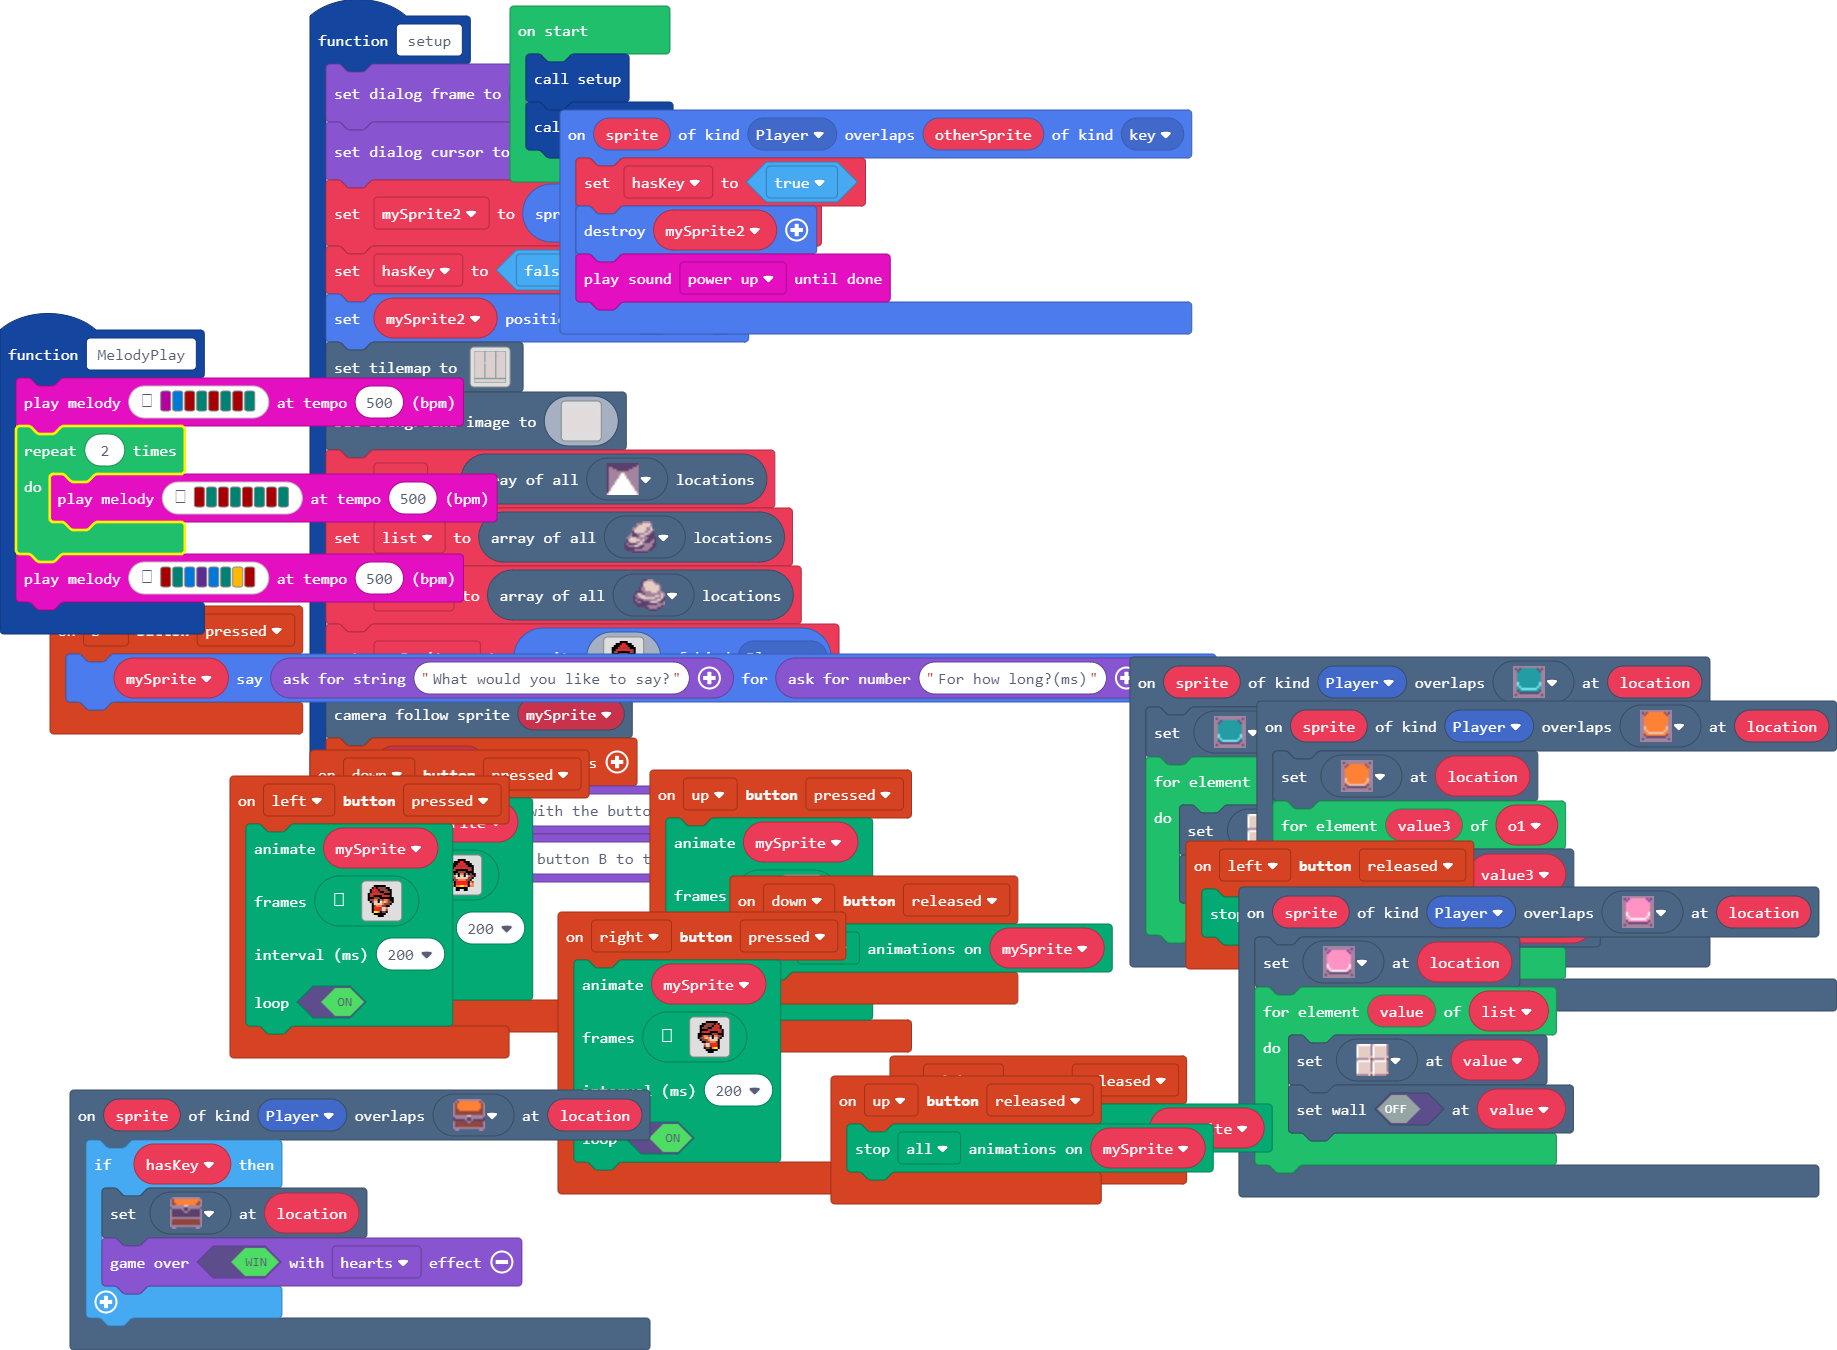
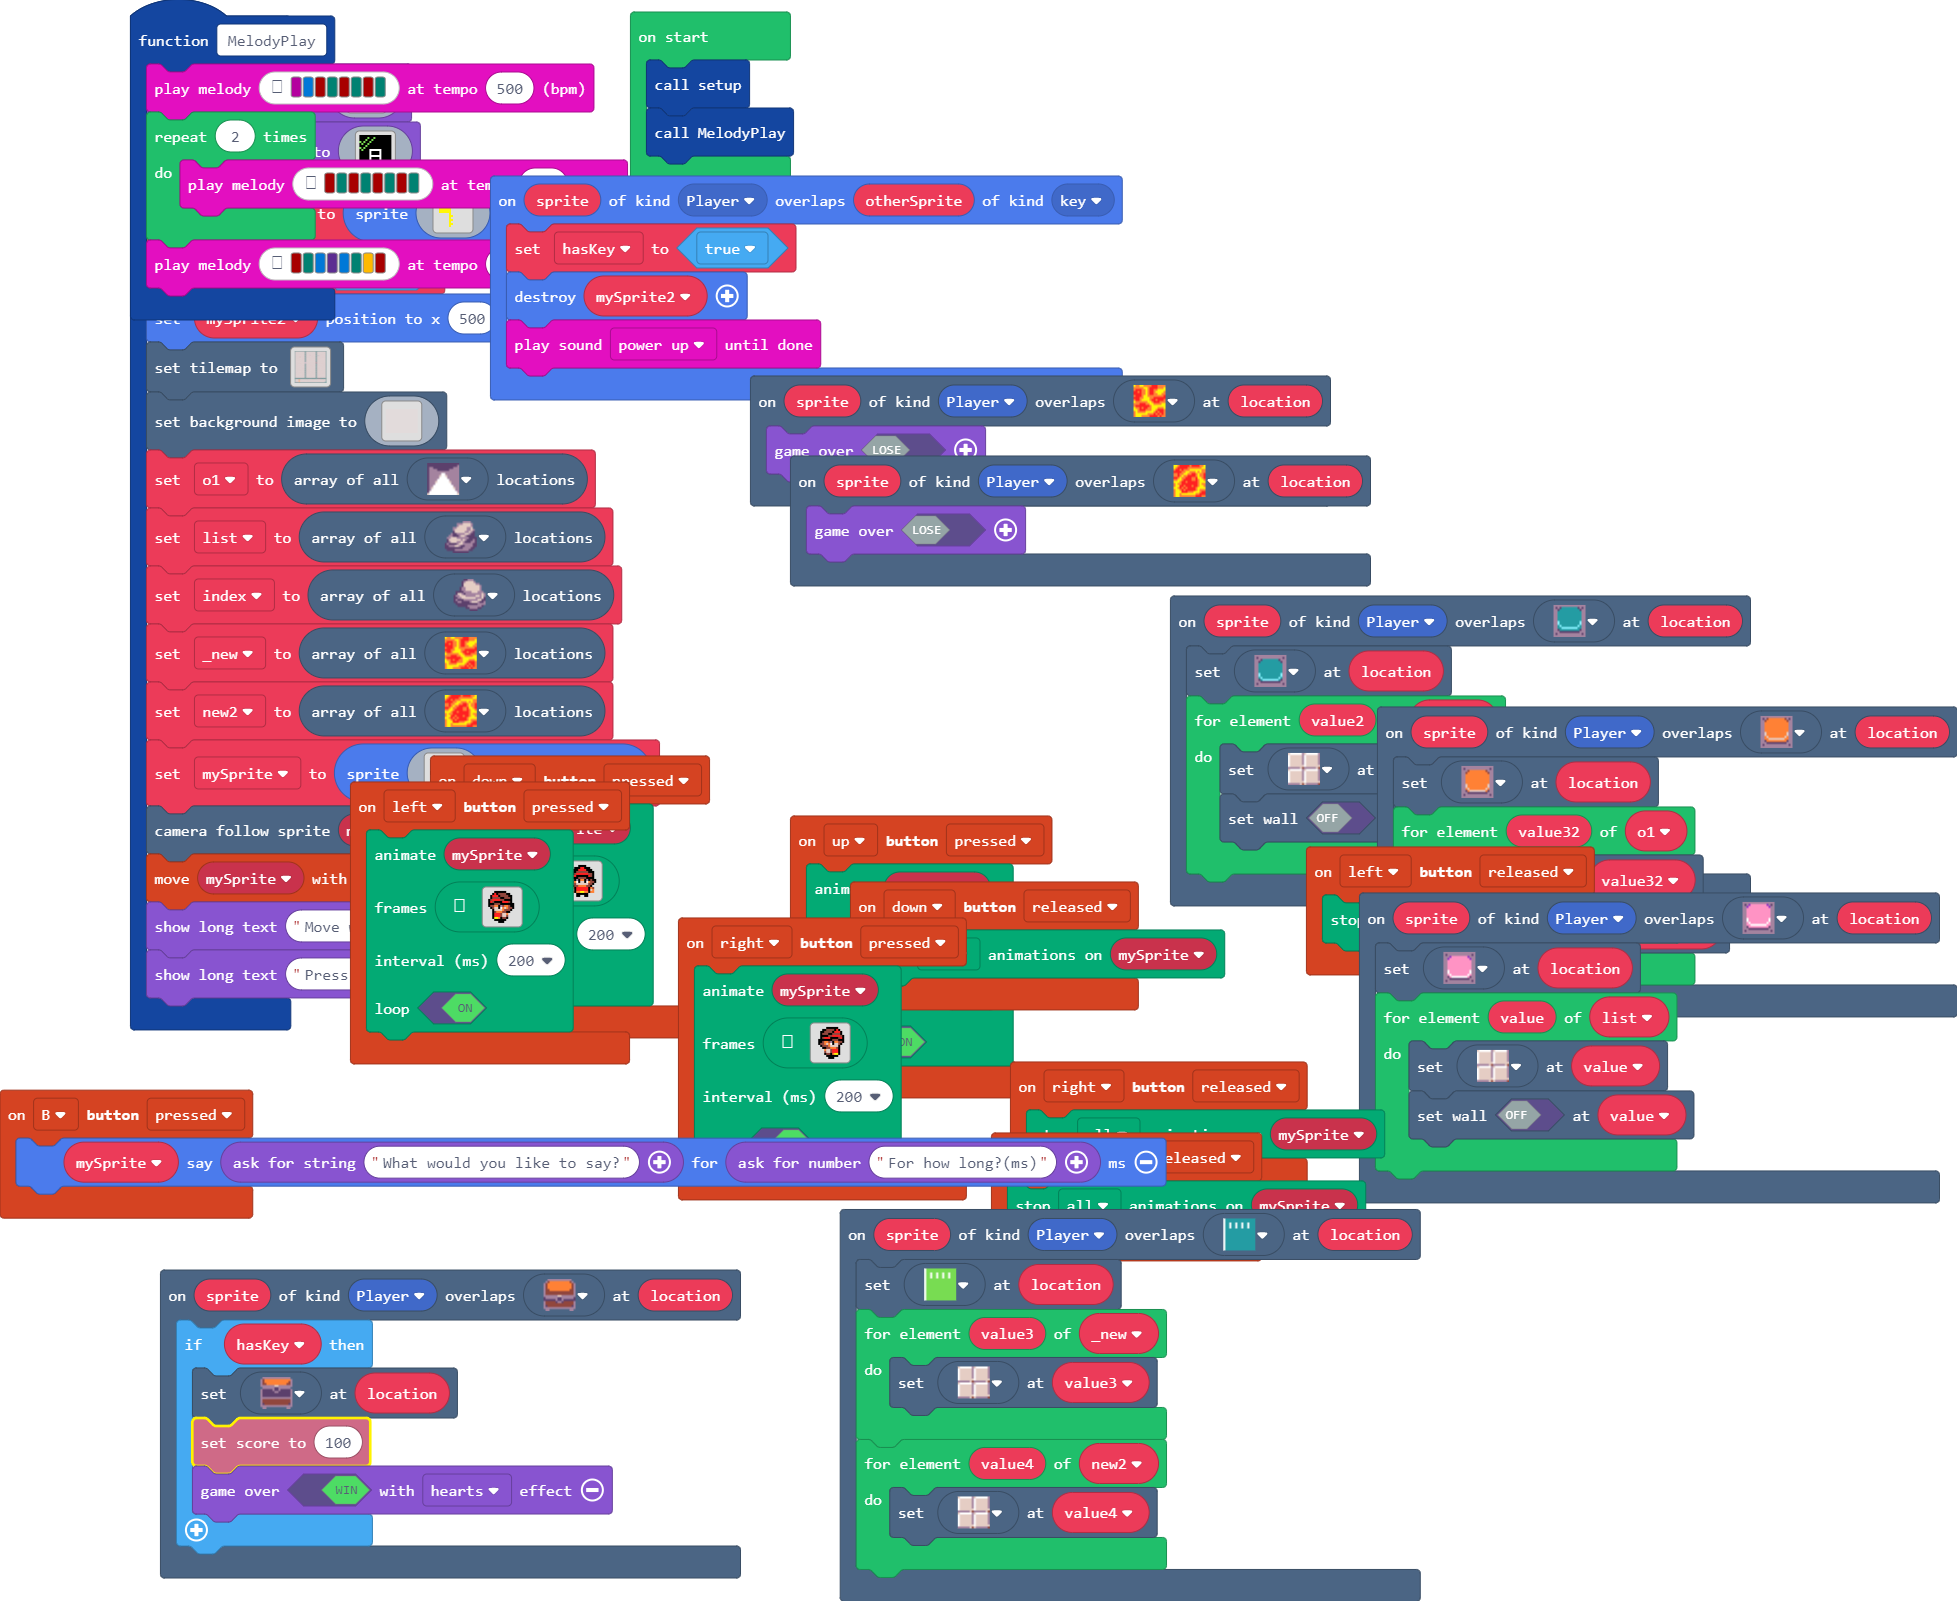
Update main.blocks, main.ts

diff --git a/main.ts b/main.ts
@@ -21,6 +21,25 @@ namespace myTiles {
 . . . . . . . . . . . . . . . . 
 . . . . . . . . . . . . . . . . 
 `
+    //% blockIdentity=images._tile
+    export const tile1 = img`
+d d d d d d d d d d d d d d d d 
+d d d d d d d d d d d d d d d d 
+d d d d d d d d d d d d d d d d 
+d d d d d d d d d d d d d d d d 
+d d d d d f f f f f f f d d d d 
+d d d d d f f f f f f f d d d d 
+d d d d d f f f f f f f d d d d 
+d d d d d f f f f f f f d d d d 
+d d d d d f f f f f f f d d d d 
+d d d d d f f f f f f f d d d d 
+d d d d d f f f f f f f d d d d 
+d d d d d d d d d d d d d d d d 
+d d d d d d d d d d d d d d d d 
+d d d d d d d d d d d d d d d d 
+d d d d d d d d d d d d d d d d 
+d d d d d d d d d d d d d d d d 
+`
 }
 controller.up.onEvent(ControllerButtonEvent.Released, function () {
     animation.stopAnimation(animation.AnimationTypes.All, mySprite)
@@ -205,6 +224,12 @@ sprites.onOverlap(SpriteKind.Player, SpriteKind.key, function (sprite, otherSpri
     mySprite2.destroy()
     music.powerUp.playUntilDone()
 })
+scene.onOverlapTile(SpriteKind.Player, sprites.dungeon.hazardLava1, function (sprite, location) {
+    game.over(false)
+})
+scene.onOverlapTile(SpriteKind.Player, sprites.dungeon.hazardLava0, function (sprite, location) {
+    game.over(false)
+})
 controller.right.onEvent(ControllerButtonEvent.Pressed, function () {
     animation.runImageAnimation(
     mySprite,
@@ -341,7 +366,7 @@ f f f f f f f f f f f f f f f f
     hasKey = false
     mySprite2.setPosition(500, 66)
     tiles.setTilemap(tiles.createTilemap(
[2 lines of base64/hex data omitted]
             img`
 2 2 2 2 2 2 2 2 2 2 2 2 2 2 2 2 2 2 2 2 2 2 2 2 2 2 2 2 2 2 2 2 2 2 2 2 2 2 2 2 2 2 2 2 2 2 2 2 2 2 
 2 . . . . . . . . . . . . . . . 2 2 . . . . . . . . . . . . . . . 2 2 . . . . . . . . . . . . . . 2 
@@ -394,7 +419,7 @@ f f f f f f f f f f f f f f f f
 2 . . . . . . . . . . . . . . . . . . . . . . . . . . . . . . . . . . . . . . . . . . . . . . . . 2 
 2 2 2 2 2 2 2 2 2 2 2 2 2 2 2 2 2 2 2 2 2 2 2 2 2 2 2 2 2 2 2 2 2 2 2 2 2 2 2 2 2 2 2 2 2 2 2 2 2 2 
 `,
-            [myTiles.tile0,sprites.dungeon.floorDark0,sprites.dungeon.greenOuterNorth0,sprites.dungeon.greenOuterNorthWest,sprites.dungeon.greenOuterNorthEast,sprites.dungeon.greenOuterEast0,sprites.dungeon.purpleOuterNorthWest,sprites.dungeon.purpleOuterNorth1,sprites.dungeon.purpleOuterNorthEast,sprites.dungeon.purpleOuterEast0,sprites.dungeon.purpleInnerNorthEast,sprites.dungeon.purpleInnerNorthWest,sprites.dungeon.purpleInnerSouthWest,sprites.dungeon.purpleInnerSouthEast,sprites.dungeon.collectibleRedCrystal,sprites.dungeon.chestClosed,sprites.castle.rock0,sprites.dungeon.stairNorth,sprites.dungeon.purpleSwitchUp,sprites.dungeon.greenSwitchUp,sprites.dungeon.greenOuterWest1,sprites.dungeon.greenOuterWest0,sprites.dungeon.greenInnerNorthWest,sprites.dungeon.greenInnerNorthEast,sprites.dungeon.greenInnerSouthWest,sprites.dungeon.greenInnerSouthEast,sprites.dungeon.floorLight0,sprites.dungeon.greenOuterSouthEast,sprites.dungeon.greenOuterSouth0,sprites.dungeon.greenOuterSouth1,sprites.dungeon.greenOuterSouthWest,sprites.dungeon.buttonTeal,sprites.dungeon.hazardSpike,sprites.dungeon.floorLight2,sprites.dungeon.doorLockedWest,sprites.dungeon.greenSwitchDown,sprites.castle.rock1,sprites.dungeon.buttonPink,sprites.dungeon.buttonOrange,sprites.dungeon.buttonOrangeDepressed,sprites.dungeon.buttonPinkDepressed,sprites.dungeon.buttonTealDepressed,sprites.dungeon.chestOpen],
+            [myTiles.tile0,sprites.dungeon.floorDark0,sprites.dungeon.greenOuterNorth0,sprites.dungeon.greenOuterNorthWest,sprites.dungeon.greenOuterNorthEast,sprites.dungeon.greenOuterEast0,sprites.dungeon.purpleOuterNorthWest,sprites.dungeon.purpleOuterNorth1,sprites.dungeon.purpleOuterNorthEast,sprites.dungeon.purpleOuterEast0,sprites.dungeon.purpleInnerNorthEast,sprites.dungeon.purpleInnerNorthWest,sprites.dungeon.purpleInnerSouthWest,sprites.dungeon.purpleInnerSouthEast,sprites.dungeon.collectibleRedCrystal,sprites.dungeon.chestClosed,sprites.castle.rock0,sprites.dungeon.stairNorth,sprites.dungeon.purpleSwitchUp,sprites.dungeon.greenSwitchUp,sprites.dungeon.greenOuterWest1,sprites.dungeon.greenOuterWest0,sprites.dungeon.greenInnerNorthWest,sprites.dungeon.greenInnerNorthEast,sprites.dungeon.greenInnerSouthWest,sprites.dungeon.greenInnerSouthEast,sprites.dungeon.floorLight0,sprites.dungeon.greenOuterSouthEast,sprites.dungeon.greenOuterSouth0,sprites.dungeon.greenOuterSouth1,sprites.dungeon.greenOuterSouthWest,sprites.dungeon.buttonTeal,sprites.dungeon.hazardSpike,sprites.dungeon.floorLight2,sprites.dungeon.doorLockedWest,sprites.dungeon.greenSwitchDown,sprites.castle.rock1,sprites.dungeon.buttonPink,sprites.dungeon.buttonOrange,sprites.dungeon.buttonOrangeDepressed,sprites.dungeon.buttonPinkDepressed,sprites.dungeon.buttonTealDepressed,sprites.dungeon.chestOpen,myTiles.tile1,sprites.dungeon.hazardLava0,sprites.dungeon.hazardLava1,sprites.builtin.field1,sprites.builtin.field0],
             TileScale.Sixteen
         ))
     scene.setBackgroundImage(img`
@@ -522,6 +547,8 @@ d d d d d d d d d d d d d d d d d d d d d d d d d d d d d d d d d d d d d d d d 
     o1 = tiles.getTilesByType(sprites.dungeon.hazardSpike)
     list = tiles.getTilesByType(sprites.castle.rock1)
     index = tiles.getTilesByType(sprites.castle.rock0)
+    _new = tiles.getTilesByType(sprites.dungeon.hazardLava1)
+    new2 = tiles.getTilesByType(sprites.dungeon.hazardLava0)
     mySprite = sprites.create(img`
 . . . . . . f f f f . . . . . . 
 . . . . f f f 2 2 f f f . . . . 
@@ -545,6 +572,15 @@ d d d d d d d d d d d d d d d d d d d d d d d d d d d d d d d d d d d d d d d d 
     game.showLongText("Move with the buttons.", DialogLayout.Bottom)
     game.showLongText("Press button B to talk. ", DialogLayout.Bottom)
 }
+scene.onOverlapTile(SpriteKind.Player, sprites.builtin.field1, function (sprite, location) {
+    tiles.setTileAt(location, sprites.builtin.field0)
+    for (let value3 of _new) {
+        tiles.setTileAt(value3, sprites.dungeon.floorLight0)
+    }
+    for (let value4 of new2) {
+        tiles.setTileAt(value4, sprites.dungeon.floorLight0)
+    }
+})
 function MelodyPlay () {
     music.playMelody("C E C5 F C5 F C5 F ", 500)
     for (let index2 = 0; index2 < 2; index2++) {
@@ -555,14 +591,15 @@ function MelodyPlay () {
 scene.onOverlapTile(SpriteKind.Player, sprites.dungeon.chestClosed, function (sprite, location) {
     if (hasKey) {
         tiles.setTileAt(location, sprites.dungeon.chestOpen)
+        info.setScore(100)
         game.over(true, effects.hearts)
     }
 })
 scene.onOverlapTile(SpriteKind.Player, sprites.dungeon.buttonOrange, function (sprite, location) {
     tiles.setTileAt(location, sprites.dungeon.buttonOrangeDepressed)
-    for (let value3 of o1) {
-        tiles.setTileAt(value3, sprites.dungeon.floorLight0)
-        tiles.setWallAt(value3, false)
+    for (let value32 of o1) {
+        tiles.setTileAt(value32, sprites.dungeon.floorLight0)
+        tiles.setWallAt(value32, false)
     }
 })
 controller.up.onEvent(ControllerButtonEvent.Pressed, function () {
@@ -641,6 +678,8 @@ controller.up.onEvent(ControllerButtonEvent.Pressed, function () {
     true
     )
 })
+let new2: tiles.Location[] = []
+let _new: tiles.Location[] = []
 let o1: tiles.Location[] = []
 let mySprite2: Sprite = null
 let hasKey = false
